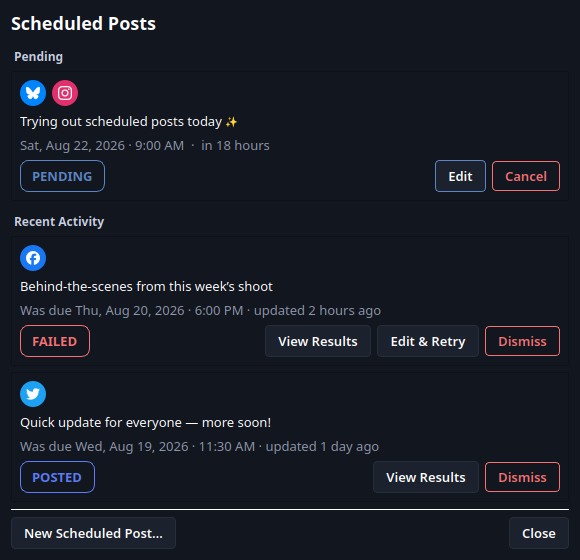
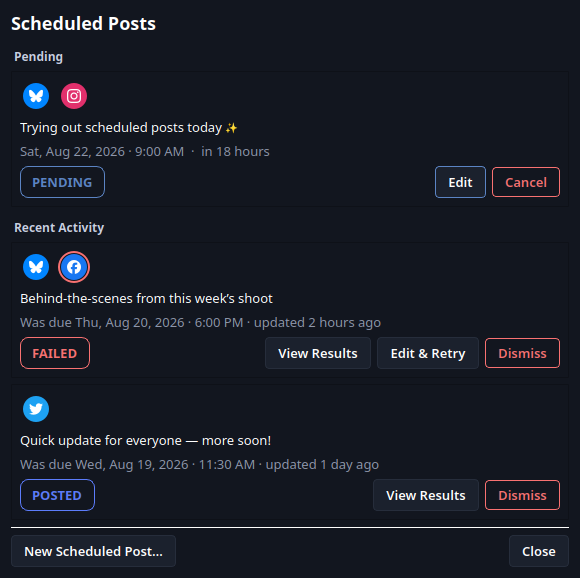
Ring the failed platform(s) in red on a mixed success/failure post
A failed scheduled post's queue row previously badged every target platform
identically, giving no visual cue about which account(s) actually failed when
some succeeded and some didn't. _platform_badge now draws a danger-colored
ring around only the failed account's icon, and _target_summary threads a
per-account failed flag through so the ring lines up with the right badge
even when two accounts share a platform icon. The design mockup's failed
queue example now shows a two-platform mix (one ringed, one not) instead of
a single fully-failed platform, matching what the real dialog renders.

🌸 Shipped with Kanna — https://kanna.sh

Kanna-Agent: cursor/claude-sonnet-5-thinking-high

diff --git a/src/gui/schedule_dialog.py b/src/gui/schedule_dialog.py
@@ -6,7 +6,7 @@ from datetime import datetime, timedelta
 from pathlib import Path
 
 from PyQt6.QtCore import QDateTime, QSize, Qt, pyqtSignal
-from PyQt6.QtGui import QColor, QFont, QPainter, QPixmap
+from PyQt6.QtGui import QColor, QFont, QPainter, QPen, QPixmap
 from PyQt6.QtWidgets import (
     QAbstractSpinBox,
     QCalendarWidget,
@@ -115,21 +115,31 @@ def _section_heading(text: str) -> QLabel:
     return label
 
 
-def _platform_badge(platform_key: str, size: int = 30) -> QPixmap:
+_BADGE_BORDER = 3  # reserved on all sides so failed/ok badges share one footprint
+
+
+def _platform_badge(platform_key: str, size: int = 30, *, failed: bool = False) -> QPixmap:
     spec = PLATFORM_SPECS_MAP.get(platform_key)
-    pixmap = QPixmap(size, size)
+    total = size + _BADGE_BORDER * 2
+    pixmap = QPixmap(total, total)
     pixmap.fill(Qt.GlobalColor.transparent)
     painter = QPainter(pixmap)
     painter.setRenderHint(QPainter.RenderHint.Antialiasing)
+    if failed:
+        pen = QPen(QColor(tokens.DANGER))
+        pen.setWidth(2)
+        painter.setPen(pen)
+        painter.setBrush(Qt.BrushStyle.NoBrush)
+        painter.drawEllipse(1, 1, total - 2, total - 2)
     painter.setPen(Qt.PenStyle.NoPen)
     painter.setBrush(QColor(spec.platform_color if spec else tokens.BORDER))
-    painter.drawEllipse(1, 1, size - 2, size - 2)
+    painter.drawEllipse(_BADGE_BORDER + 1, _BADGE_BORDER + 1, size - 2, size - 2)
 
     icon_name = _BRAND_ICON_FILES.get(platform_key)
     if icon_name:
         icon_size = max(14, size - 13)
         icon = _render_svg_colored(_BRAND_ICONS_DIR / icon_name, icon_size, QColor(tokens.TEXT))
-        offset = (size - icon_size) // 2
+        offset = _BADGE_BORDER + (size - icon_size) // 2
         painter.drawPixmap(offset, offset, icon)
     else:
         font = QFont()
@@ -137,20 +147,24 @@ def _platform_badge(platform_key: str, size: int = 30) -> QPixmap:
         font.setPixelSize(max(12, size // 2))
         painter.setFont(font)
         painter.setPen(QColor(tokens.TEXT))
-        painter.drawText(pixmap.rect(), int(Qt.AlignmentFlag.AlignCenter), platform_key[:1].upper())
+        badge_rect = pixmap.rect().adjusted(
+            _BADGE_BORDER, _BADGE_BORDER, -_BADGE_BORDER, -_BADGE_BORDER
+        )
+        painter.drawText(badge_rect, int(Qt.AlignmentFlag.AlignCenter), platform_key[:1].upper())
     painter.end()
     return pixmap
 
 
-def _target_summary(names: list[str], keys: list[str]) -> QWidget:
+def _target_summary(names: list[str], keys: list[str], failed: list[bool] | None = None) -> QWidget:
     widget = QWidget()
     layout = QHBoxLayout(widget)
     layout.setContentsMargins(0, 0, 0, 0)
     layout.setSpacing(5)
-    for name, key in zip(names, keys, strict=True):
+    failed = failed if failed is not None else [False] * len(names)
+    for name, key, is_failed in zip(names, keys, failed, strict=True):
         badge = QLabel()
-        badge.setPixmap(_platform_badge(key))
-        badge.setToolTip(name)
+        badge.setPixmap(_platform_badge(key, failed=is_failed))
+        badge.setToolTip(f'{name} — failed to post' if is_failed else name)
         layout.addWidget(badge)
     names_label = QLabel(', '.join(names))
     names_label.setWordWrap(True)
@@ -356,7 +370,11 @@ class ScheduledPostsDialog(QDialog):
         layout = QVBoxLayout(frame)
         account_names = [self._display_name(account_id) for account_id in post.account_ids]
         account_keys = [self._platform_key(account_id) for account_id in post.account_ids]
-        layout.addWidget(_target_summary(account_names, account_keys))
+        failed_ids = {
+            result.get('account_id') for result in post.results if not result.get('success')
+        }
+        account_failed = [account_id in failed_ids for account_id in post.account_ids]
+        layout.addWidget(_target_summary(account_names, account_keys, account_failed))
         preview = post.text.replace('\n', ' ')
         if len(preview) > 120:
             preview = preview[:117] + '…'

diff --git a/tools/screenshots/generate_scheduling_mockups.py b/tools/screenshots/generate_scheduling_mockups.py
@@ -35,7 +35,7 @@ sys.path.insert(0, str(Path(__file__).resolve().parent.parent.parent))
 
 from PIL import Image
 from PyQt6.QtCore import QDate, QDateTime, QPoint, Qt, QTime
-from PyQt6.QtGui import QColor, QImage, QPainter, QPixmap
+from PyQt6.QtGui import QColor, QImage, QPainter, QPen, QPixmap
 from PyQt6.QtWidgets import (
     QApplication,
     QCheckBox,
@@ -104,16 +104,26 @@ def _save(image: Image.Image, name: str) -> None:
     print(f'Wrote {path} ({image.width}x{image.height})')
 
 
-def _platform_badge(platform_key: str, size: int = 28) -> QPixmap:
+_BADGE_BORDER = 3  # reserved on all sides so failed/ok badges share one footprint
+
+
+def _platform_badge(platform_key: str, size: int = 28, *, failed: bool = False) -> QPixmap:
     spec = PLATFORM_SPECS_MAP[platform_key]
-    pixmap = QPixmap(size, size)
+    total = size + _BADGE_BORDER * 2
+    pixmap = QPixmap(total, total)
     pixmap.fill(Qt.GlobalColor.transparent)
 
     painter = QPainter(pixmap)
     painter.setRenderHint(QPainter.RenderHint.Antialiasing)
+    if failed:
+        pen = QPen(QColor(tokens.DANGER))
+        pen.setWidth(2)
+        painter.setPen(pen)
+        painter.setBrush(Qt.BrushStyle.NoBrush)
+        painter.drawEllipse(1, 1, total - 2, total - 2)
     painter.setBrush(QColor(spec.platform_color))
     painter.setPen(Qt.PenStyle.NoPen)
-    painter.drawEllipse(0, 0, size, size)
+    painter.drawEllipse(_BADGE_BORDER, _BADGE_BORDER, size, size)
 
     icon_file = _BRAND_ICON_FILES.get(platform_key)
     if icon_file:
@@ -121,16 +131,17 @@ def _platform_badge(platform_key: str, size: int = 28) -> QPixmap:
         icon_pixmap = _render_svg_colored(
             _ICONS_DIR / 'brands' / icon_file, icon_size, QColor(tokens.TEXT)
         )
-        offset = (size - icon_size) // 2
+        offset = _BADGE_BORDER + (size - icon_size) // 2
         painter.drawPixmap(offset, offset, icon_pixmap)
     painter.end()
     return pixmap
 
 
-def _badge_label(platform_key: str, size: int = 28) -> QLabel:
+def _badge_label(platform_key: str, size: int = 28, *, failed: bool = False) -> QLabel:
     label = QLabel()
-    label.setPixmap(_platform_badge(platform_key, size))
-    label.setFixedSize(size, size)
+    pixmap = _platform_badge(platform_key, size, failed=failed)
+    label.setPixmap(pixmap)
+    label.setFixedSize(pixmap.size())
     return label
 
 
@@ -236,18 +247,25 @@ _QUEUE_ITEMS = [
     {
         'state': 'pending',
         'platforms': ('bluesky', 'meta_instagram'),
+        'failed_platforms': frozenset(),
         'caption': 'Trying out scheduled posts today ✨',
         'due_line': 'Sat, Aug 22, 2026 · 9:00 AM  ·  in 18 hours',
     },
     {
+        # Mixed outcome: bluesky succeeded, facebook failed. The still-failed
+        # platform gets a danger-colored ring so a partial failure reads as
+        # partial, not as "everything here failed" -- see schedule_dialog.py's
+        # _platform_badge / _target_summary for the real (non-mockup) version.
         'state': 'failed',
-        'platforms': ('meta_facebook_page',),
+        'platforms': ('bluesky', 'meta_facebook_page'),
+        'failed_platforms': frozenset({'meta_facebook_page'}),
         'caption': 'Behind-the-scenes from this week’s shoot',
         'due_line': 'Was due Thu, Aug 20, 2026 · 6:00 PM · updated 2 hours ago',
     },
     {
         'state': 'posted',
         'platforms': ('twitter',),
+        'failed_platforms': frozenset(),
         'caption': 'Quick update for everyone — more soon!',
         'due_line': 'Was due Wed, Aug 19, 2026 · 11:30 AM · updated 1 day ago',
     },
@@ -265,7 +283,7 @@ def _queue_row(item: dict) -> QFrame:
 
     badges_row = QHBoxLayout()
     for key in item['platforms']:
-        badges_row.addWidget(_badge_label(key, size=26))
+        badges_row.addWidget(_badge_label(key, size=26, failed=key in item['failed_platforms']))
     badges_row.addStretch()
     layout.addLayout(badges_row)
 

diff --git a/tests/test_schedule_dialog.py b/tests/test_schedule_dialog.py
@@ -12,7 +12,12 @@ from PyQt6.QtWidgets import (
 )
 
 from src.core.scheduled_post_queue import ScheduledPostQueue
-from src.gui.schedule_dialog import MissedPostDialog, ScheduleDialog, ScheduledPostsDialog
+from src.gui.schedule_dialog import (
+    MissedPostDialog,
+    ScheduleDialog,
+    ScheduledPostsDialog,
+    _platform_badge,
+)
 
 
 def test_schedule_dialog_uses_combined_editor_and_separate_calendar_button(qtbot):
@@ -163,6 +168,52 @@ def test_scheduled_posts_dialog_shows_history_with_state_specific_actions(qtbot,
     view_buttons[0].click()
     assert len(viewed) == 1
     assert viewed[0].id in {posted.id, failed.id}
+
+
+def test_platform_badge_draws_danger_ring_only_when_failed():
+    ok_image = _platform_badge('twitter', failed=False).toImage()
+    failed_image = _platform_badge('twitter', failed=True).toImage()
+
+    assert ok_image.size() == failed_image.size()
+    # The badge circle itself doesn't reach the outermost pixels (they're
+    # reserved as border space -- see _BADGE_BORDER), so this point is only
+    # ever painted when the danger ring is drawn.
+    top_center_x = ok_image.width() // 2
+    assert ok_image.pixelColor(top_center_x, 1).alpha() == 0
+    assert failed_image.pixelColor(top_center_x, 1).alpha() > 0
+
+
+def test_scheduled_posts_dialog_marks_only_the_failed_account_in_a_mixed_result(qtbot, tmp_path):
+    queue = ScheduledPostQueue(tmp_path / 'queue.sqlite3')
+    post = queue.add(
+        text='mixed caption',
+        account_ids=['twitter_1', 'bluesky_1'],
+        media_paths=[],
+        processed_media={},
+        due_at=datetime.now().astimezone() - timedelta(minutes=3),
+    )
+    queue.claim_due()
+    queue.mark_results(
+        post.id,
+        [
+            {'account_id': 'twitter_1', 'success': True},
+            {'account_id': 'bluesky_1', 'success': False},
+        ],
+    )
+    names = {'twitter_1': 'Twitter (main)', 'bluesky_1': 'Bluesky (main)'}
+
+    dialog = ScheduledPostsDialog(
+        queue,
+        lambda account_id: names[account_id],
+        None,
+        platform_key=lambda account_id: account_id.split('_')[0],
+    )
+    qtbot.addWidget(dialog)
+
+    tooltips = {label.toolTip() for label in dialog.findChildren(QLabel) if label.toolTip()}
+    assert 'Bluesky (main) — failed to post' in tooltips
+    assert 'Twitter (main)' in tooltips
+    assert 'Twitter (main) — failed to post' not in tooltips
 
 
 def test_scheduled_posts_dialog_dismiss_deletes_history_record(qtbot, tmp_path, monkeypatch):

diff --git a/docs/SCHEDULING.md b/docs/SCHEDULING.md
@@ -54,10 +54,13 @@ next launch. Interrupted `in_flight` items are also recovered to `pending` at st
 
 Platform failures stay isolated: one account failing does not stop the other selected
 accounts, and a post with a mix of successes and failures is recorded as **failed** —
-GaleFling never silently discards which accounts actually went out. It logs the outcome
-and shows one consolidated system notification naming only the failed accounts. Clicking
-it, or the tray icon's **Scheduled Posts** menu item, opens the standard results dialog
-showing every account's outcome, including links for the ones that already succeeded.
+GaleFling never silently discards which accounts actually went out. In the queue's
+**Recent Activity** list, only the account(s) that actually failed get a red ring around
+their platform icon, so a partial failure reads as partial rather than as "everything
+here failed." GaleFling logs the outcome and shows one consolidated system notification
+naming only the failed accounts. Clicking it, or the tray icon's **Scheduled Posts** menu
+item, opens the standard results dialog showing every account's outcome, including links
+for the ones that already succeeded.
 If SMTP credentials and a notification address are configured, GaleFling also sends one
 durable failure email. Email and system notifications are best-effort and neither changes
 the recorded posting result. Optionally, **Settings → Advanced → SMTP → Also email me when
